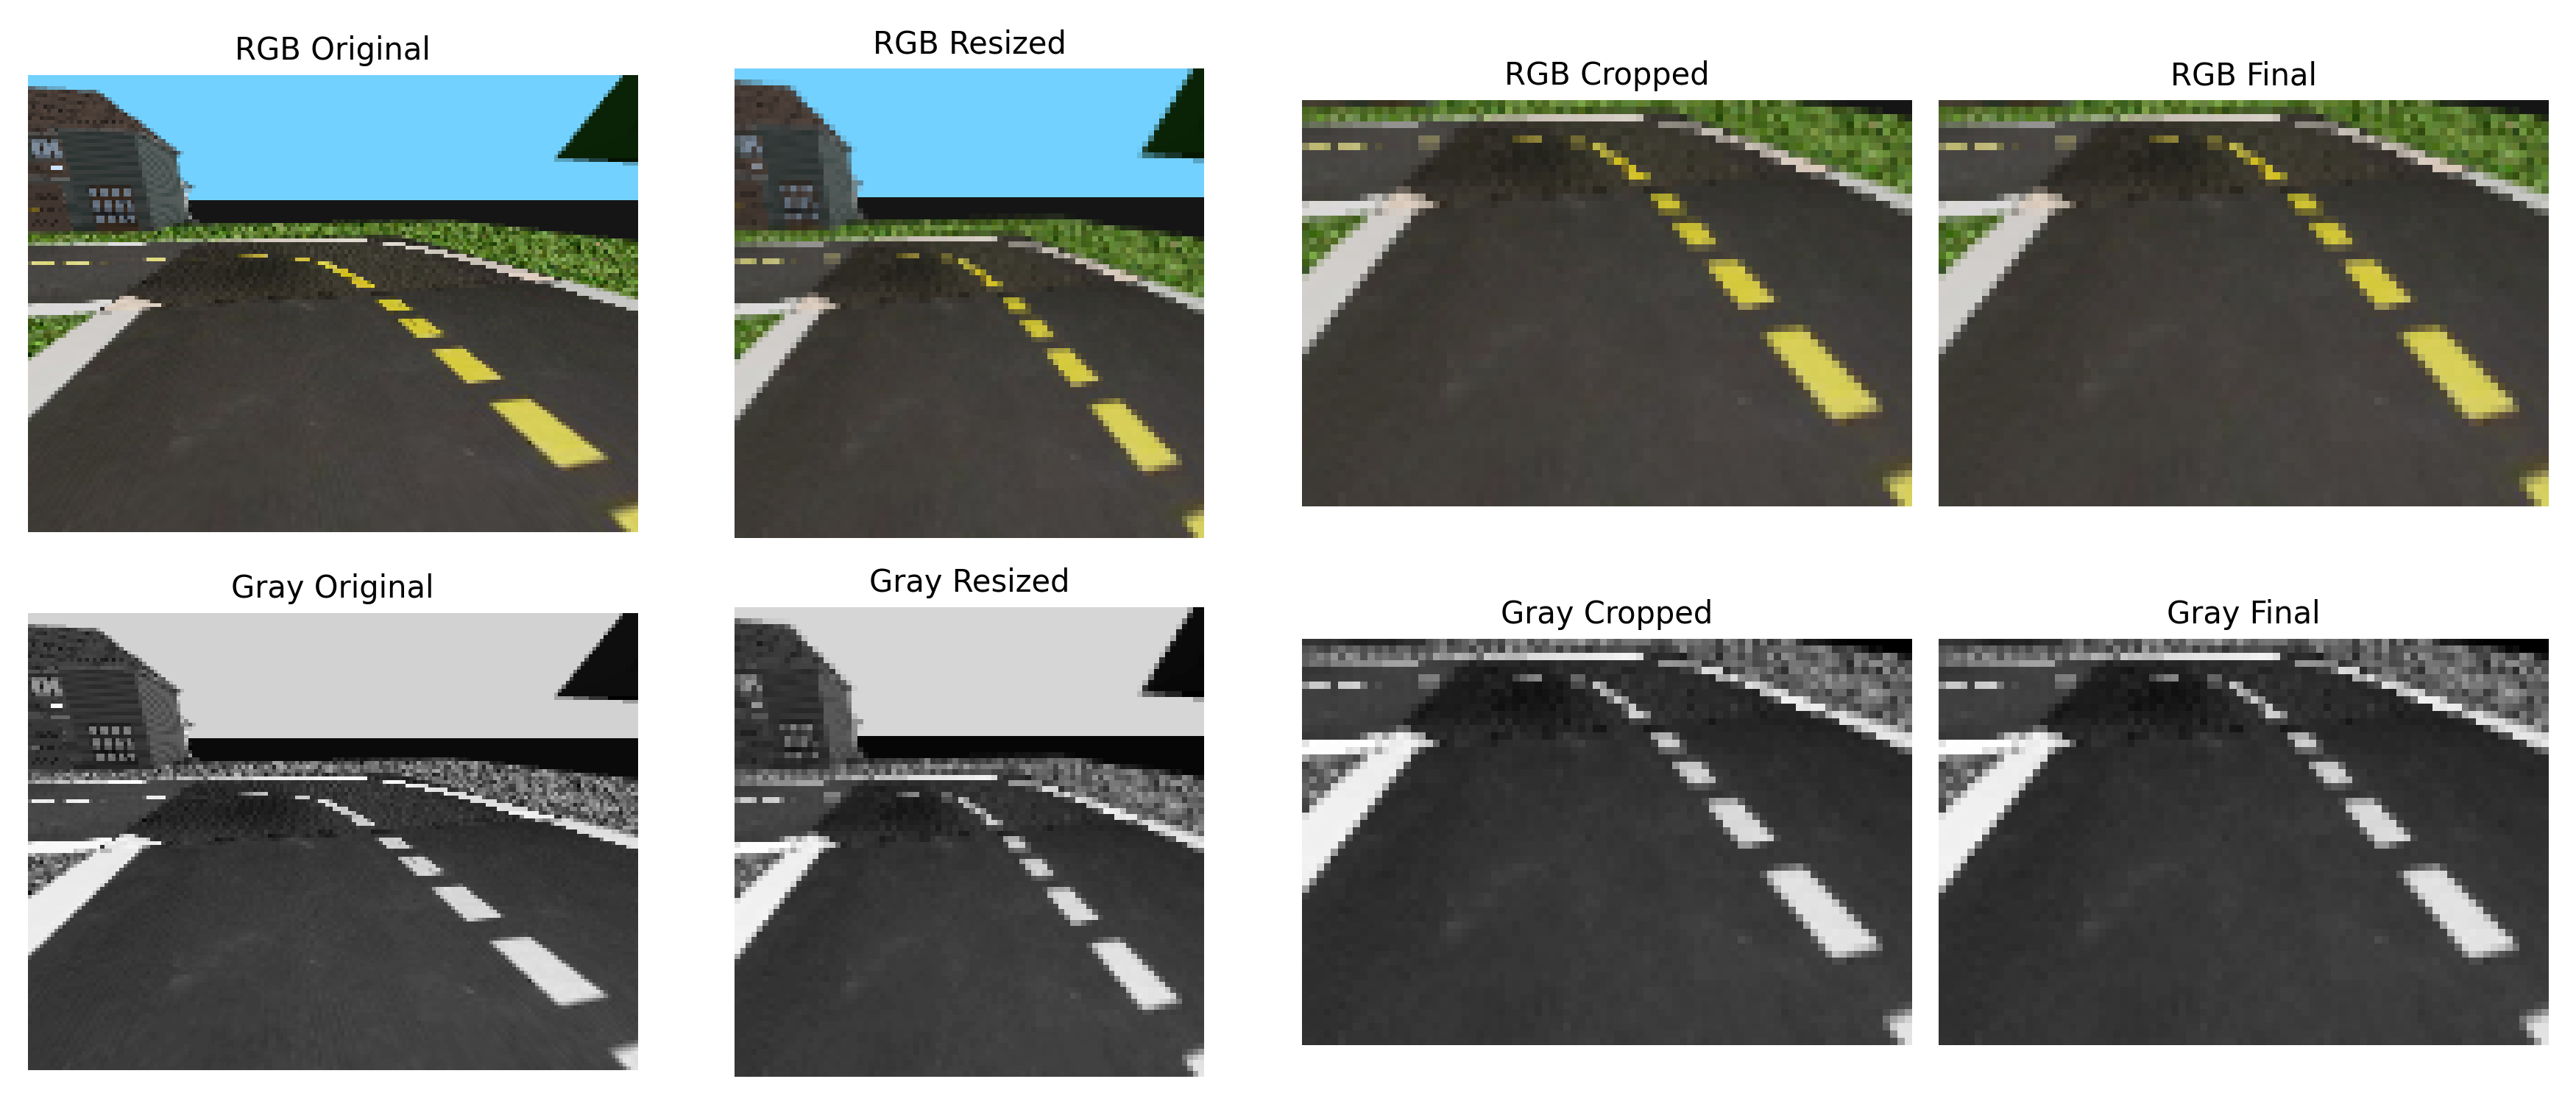
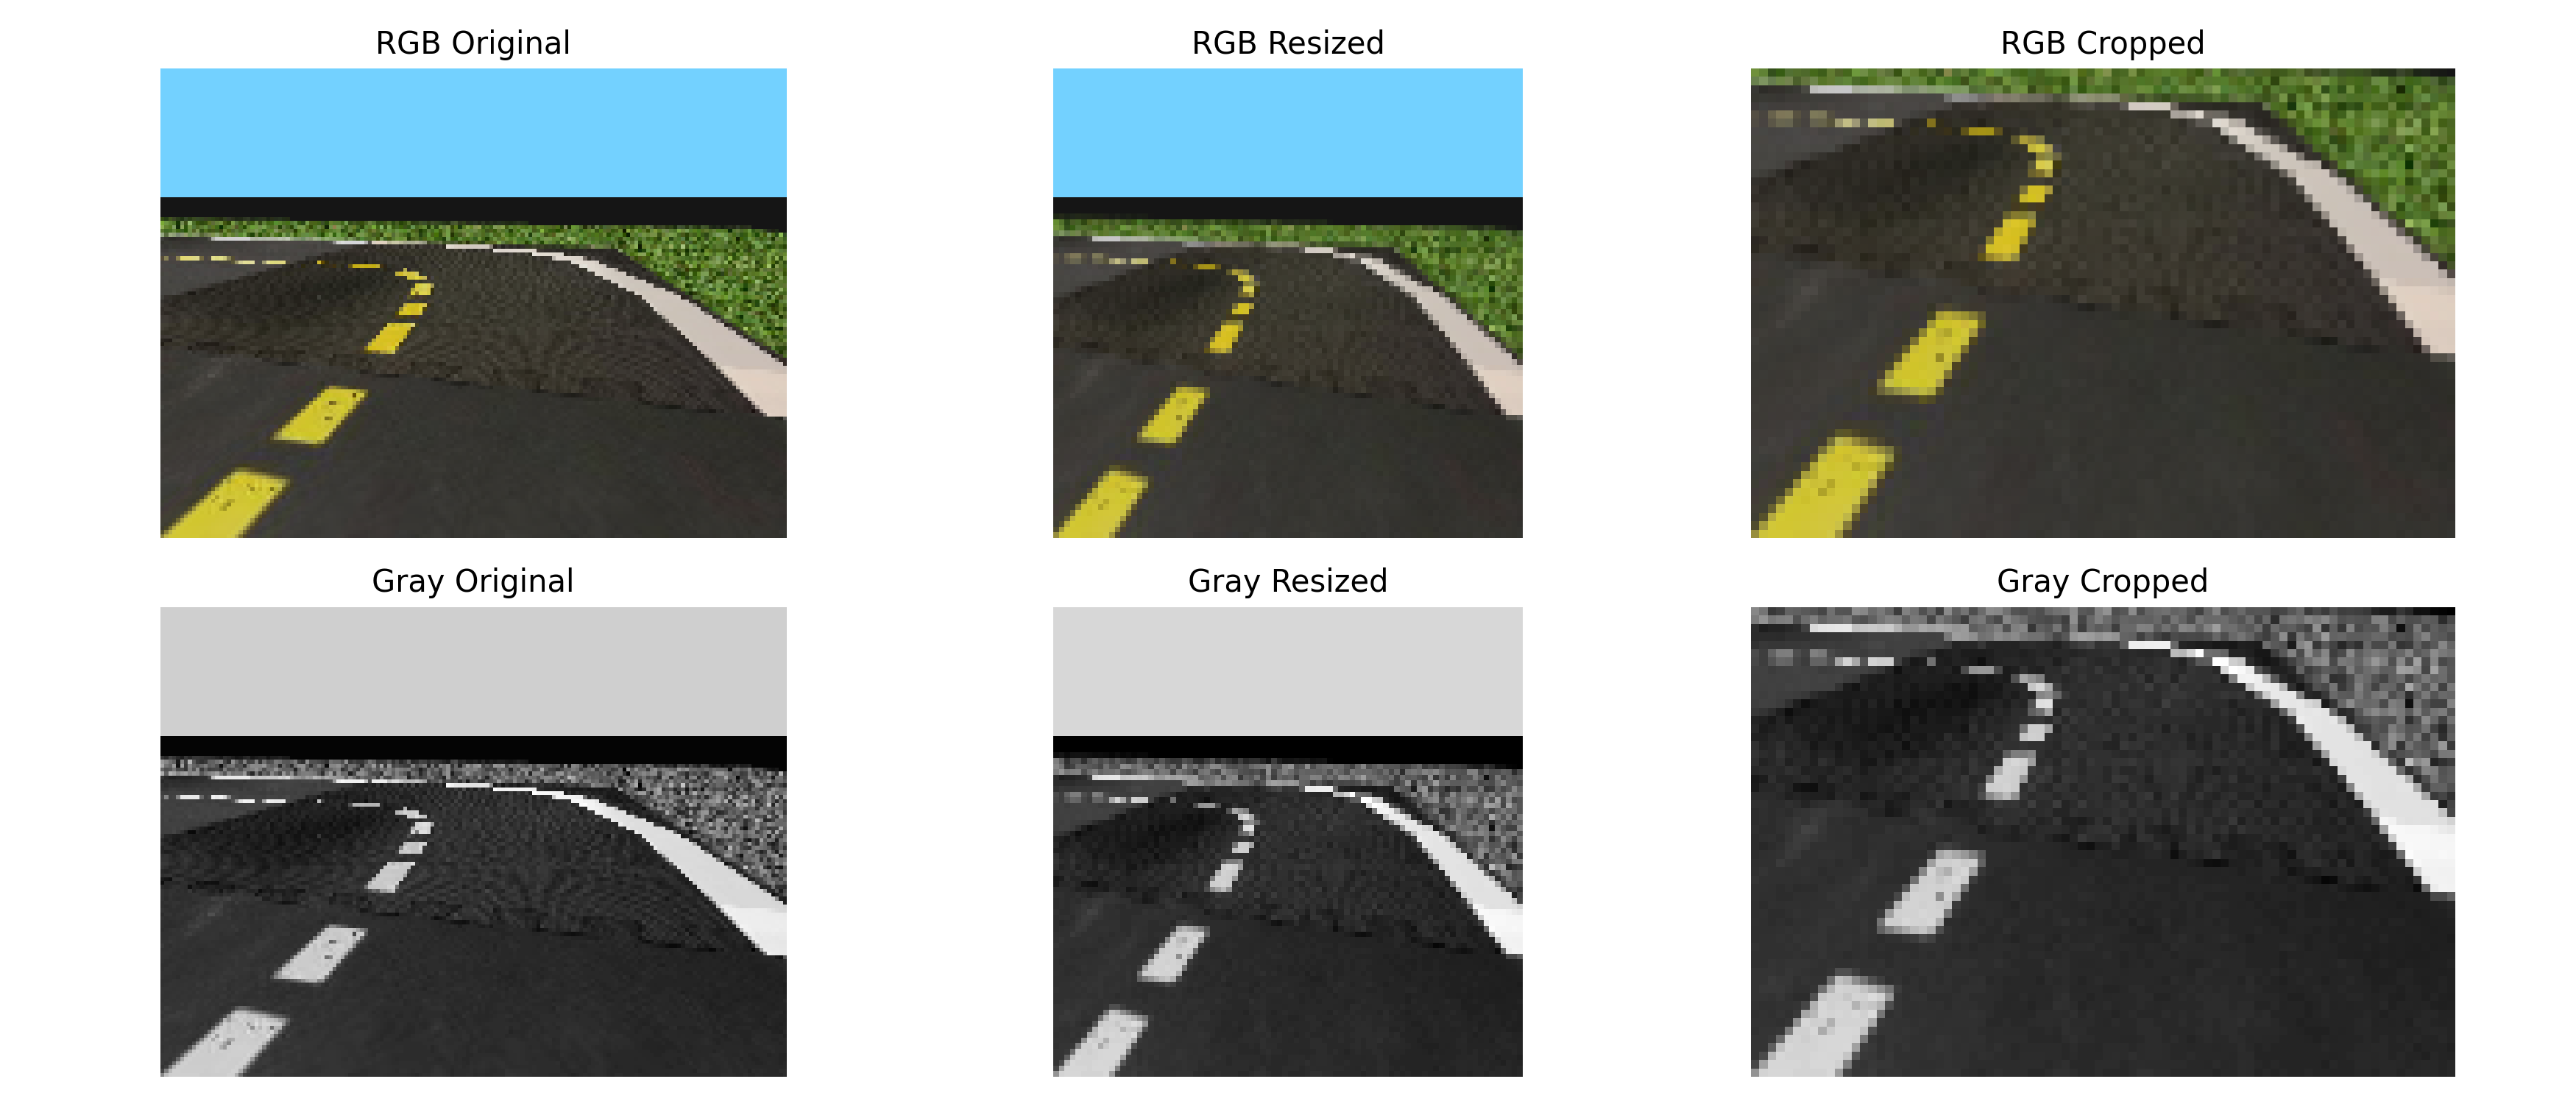
run

diff --git a/Report/ImageCreature.py b/Report/ImageCreature.py
@@ -94,7 +94,7 @@ def full_pipeline(img):
     """
     resized = resize(img)
     cropped = crop(resized)
-    return img, resized, cropped, cropped  # final = cropped here
+    return img, resized, cropped, cropped  
 
 def full_pipeline_gray(img):
     gray = to_gray(img)
@@ -151,7 +151,7 @@ def update(dt):
         rgb_o, rgb_r, rgb_c, rgb_f = full_pipeline(obs)
         g_o, g_r, g_c, g_f = full_pipeline_gray(obs)
 
-        fig, axs = plt.subplots(2, 4, figsize=(14, 6))
+        fig, axs = plt.subplots(2, 3, figsize=(14, 6))
 
         # ---------------- RGB row ----------------
         axs[0, 0].imshow(rgb_o)
@@ -166,9 +166,9 @@ def update(dt):
         axs[0, 2].set_title("RGB Cropped")
         axs[0, 2].axis("off")
 
-        axs[0, 3].imshow(rgb_f)
-        axs[0, 3].set_title("RGB Final")
-        axs[0, 3].axis("off")
+        # axs[0, 3].imshow(rgb_f)
+        # axs[0, 3].set_title("RGB Final")
+        # axs[0, 3].axis("off")
 
         # ---------------- Gray row ----------------
         axs[1, 0].imshow(g_o, cmap="gray")
@@ -183,9 +183,9 @@ def update(dt):
         axs[1, 2].set_title("Gray Cropped")
         axs[1, 2].axis("off")
 
-        axs[1, 3].imshow(g_f, cmap="gray")
-        axs[1, 3].set_title("Gray Final")
-        axs[1, 3].axis("off")
+        # axs[1, 3].imshow(g_f, cmap="gray")
+        # axs[1, 3].set_title("Gray Final")
+        # axs[1, 3].axis("off")
 
         plt.tight_layout()
         plt.savefig("observation_pipeline_full.png", dpi=250)